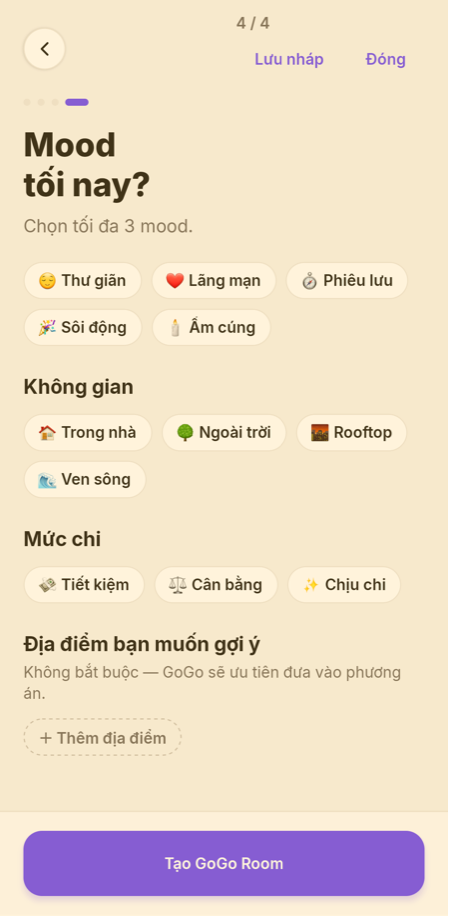
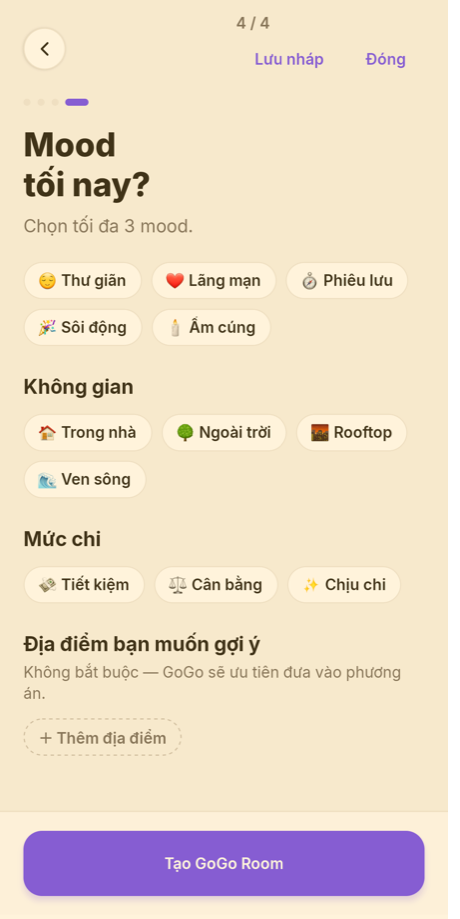
fix: crop device status bars inside phone frames
Bottom-anchor the screenshot inside a shorter frame so the device
status bar never shows; re-crop the Android shot at both ends; keep the
hero frames full-width on narrow screens (auto margins collapsed the
grid item once the images became absolute); make the mobile gallery
scroll horizontally only.

diff --git a/site/index.html b/site/index.html
@@ -132,14 +132,14 @@
 
     /* Phone frames */
     .phone {
-      position: relative; width: 100%; aspect-ratio: 9 / 19;
+      position: relative; width: 100%; aspect-ratio: 460 / 886;
       border-radius: 40px; background: var(--ink); padding: 10px;
       box-shadow: var(--shadow-phone);
     }
-    .phone .screen { width: 100%; height: 100%; overflow: hidden; border-radius: 32px; background: var(--ivory); }
-    .phone img { display: block; width: 100%; height: auto; }
-    .phone.ios img { margin-top: -7%; }      /* hide device status bar */
-    .phone.android img { margin-top: -3%; }  /* hide device status bar */
+    .phone .screen { position: relative; width: 100%; height: 100%; overflow: hidden; border-radius: 32px; background: var(--ivory); }
+    /* Bottom-anchored image: the frame is shorter than the shot, so the device status bar is cropped off the top. */
+    .phone img { position: absolute; left: 0; right: 0; bottom: 0; display: block; width: 100%; height: auto; }
+    .phone.android img { bottom: auto; top: 0; } /* Android shot already cropped at both ends */
     .phone .notch { position: absolute; top: 18px; left: 50%; width: 32%; height: 22px; transform: translateX(-50%); border-radius: 999px; background: var(--ink); }
 
     .hero-shots { position: relative; display: grid; grid-template-columns: 1fr 1fr; gap: 20px; align-items: end; }
@@ -148,7 +148,7 @@
       .hero { grid-template-columns: 1fr; gap: 32px; padding-top: 40px; text-align: center; }
       .hero h1, .hero .lead { margin-left: auto; margin-right: auto; }
       .cta-row, .facts { justify-content: center; }
-      .hero-shots { max-width: 460px; margin: 0 auto; }
+      .hero-shots { width: 100%; max-width: 460px; justify-self: center; }
     }
 
     /* Sections */
@@ -182,7 +182,7 @@
     .shot figcaption strong { display: block; color: var(--ink); font-size: 15px; margin-bottom: 2px; }
     .note { margin: 20px 0 0; font-size: 13px; color: var(--muted); text-align: center; }
     @media (max-width: 1000px) {
-      .gallery { grid-template-columns: repeat(5, 72vw); overflow-x: auto; padding: 8px 16px 16px; margin: 0 -16px; scroll-snap-type: x mandatory; -webkit-overflow-scrolling: touch; }
+      .gallery { grid-template-columns: repeat(5, 72vw); overflow-x: auto; overflow-y: hidden; padding: 16px 16px 24px; margin: 0 -16px; scroll-snap-type: x mandatory; -webkit-overflow-scrolling: touch; }
       .gallery > figure { scroll-snap-align: center; margin: 0; }
     }
     @media (min-width: 560px) and (max-width: 1000px) { .gallery { grid-template-columns: repeat(5, 240px); } }
@@ -334,7 +334,7 @@
             <figcaption><strong data-i18n="tour.s1.h">Tạo kèo</strong><span data-i18n="tour.s1.p">Chọn đi hai người hay cả nhóm.</span></figcaption>
           </figure>
           <figure class="shot">
-            <div class="phone android"><div class="screen"><img src="/img/mood.png" width="460" height="916" loading="lazy" alt="Màn hình chọn mood: thư giãn, lãng mạn, phiêu lưu; không gian; mức chi"></div></div>
+            <div class="phone android"><div class="screen"><img src="/img/mood.png" width="460" height="919" loading="lazy" alt="Màn hình chọn mood: thư giãn, lãng mạn, phiêu lưu; không gian; mức chi"></div></div>
             <figcaption><strong data-i18n="tour.s2.h">Nêu sở thích</strong><span data-i18n="tour.s2.p">Mood, không gian, mức chi — vài chạm là xong.</span></figcaption>
           </figure>
           <figure class="shot">
